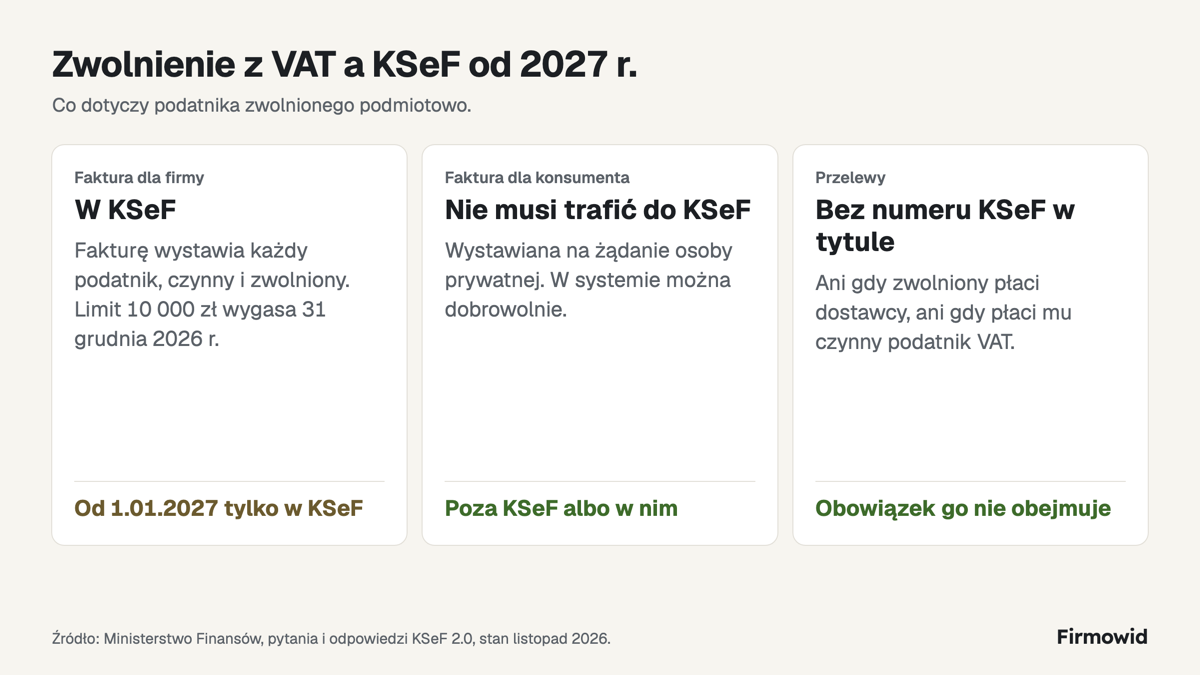
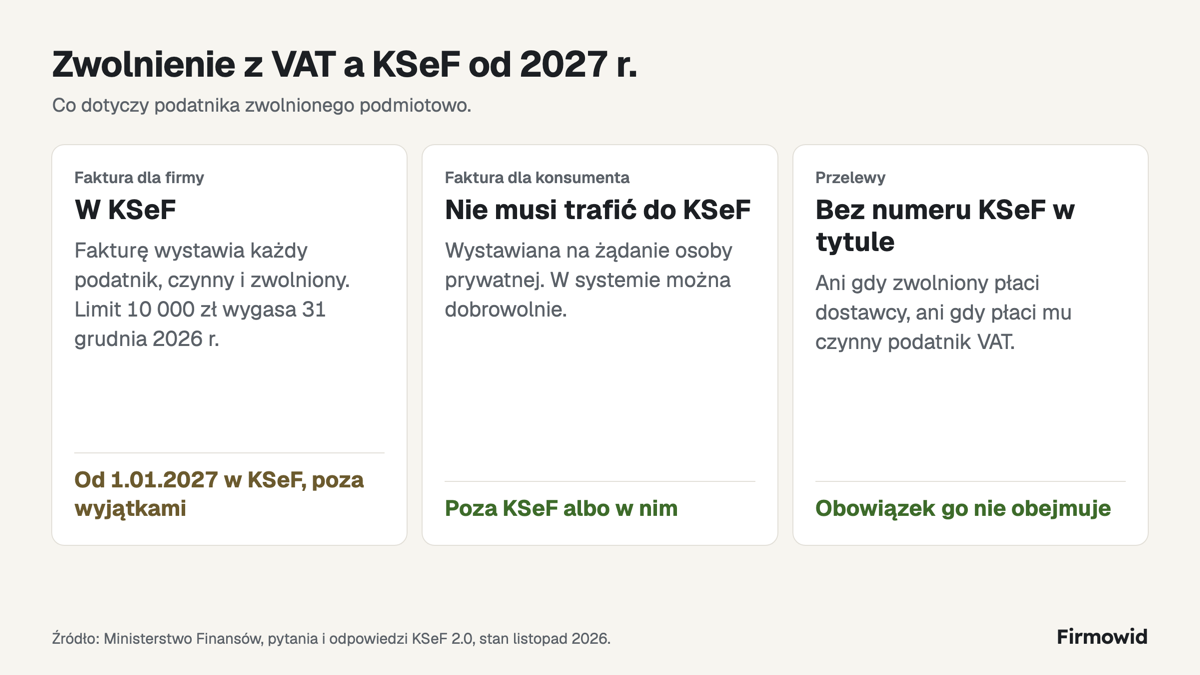
fix(landing): point to the KSeF exclusions for exempt services
Addresses review feedback on PR #415.

Changed region(s): [[0.0617, 0.6844, 0.3083, 0.7778]]

diff --git a/priv/guides/zwolnienie-z-vat-a-ksef-2027.md b/priv/guides/zwolnienie-z-vat-a-ksef-2027.md
@@ -6,7 +6,7 @@ updated: 2026-11-12
 category: ksef-w-praktyce
 ---
 
-Wśród podatników zwolnionych z VAT krąży przekonanie, że KSeF dotyczy wyłącznie firm rozliczających podatek. Ministerstwo Finansów odpowiada na to w swoich wyjaśnieniach, że fakturę w KSeF wystawia każdy podatnik, czynny i zwolniony, jeżeli ma obowiązek ją wystawić, a forma prawna firmy nie ma przy tym znaczenia. W 2026 r. wielu zwolnionych korzysta jeszcze z wyjątku dla sprzedaży udokumentowanej fakturami do 10 000 zł brutto w miesiącu, który wygasa 31 grudnia, więc od 1 stycznia 2027 r. ich faktury dla innych firm będą wystawiane już wyłącznie w systemie.
+Wśród podatników zwolnionych z VAT krąży przekonanie, że KSeF dotyczy wyłącznie firm rozliczających podatek. Ministerstwo Finansów odpowiada na to w swoich wyjaśnieniach, że fakturę w KSeF wystawia każdy podatnik, czynny i zwolniony, jeżeli ma obowiązek ją wystawić, a forma prawna firmy nie ma przy tym znaczenia. W 2026 r. wielu zwolnionych korzysta jeszcze z wyjątku dla sprzedaży udokumentowanej fakturami do 10 000 zł brutto w miesiącu, który wygasa 31 grudnia, więc od 1 stycznia 2027 r. ich faktury dla innych firm będą wystawiane już w systemie, poza wyjątkami opisanymi niżej.
 
 ## Faktura na żądanie nabywcy
 
@@ -16,7 +16,7 @@ Czynności zwolnione z VAT dokumentuje się fakturą na żądanie nabywcy, przy 
 
 Inaczej niż czynnych podatników VAT, zwolnionych nie obejmuje od 2027 r. obowiązek wpisywania numeru KSeF w tytule przelewu, zarówno gdy płacą swoim dostawcom, jak i gdy pieniądze przelewa im czynny podatnik. KSeF nie weryfikuje przy tym statusu kontrahenta w wykazie podatników VAT, o czym MF również pisze w odpowiedziach na pytania. W Firmowidzie, naszym programie do faktur, po zaznaczeniu zwolnienia w danych firmy znika z faktur kolumna VAT, a na dokumencie pojawia się podstawa prawna zwolnienia, na przykład art. 113 ustawy.
 
-![Podatnik zwolniony z VAT od 1 stycznia 2027 r. wystawia faktury dla firm tylko w KSeF, faktury dla konsumentów może wystawiać poza systemem, a numeru KSeF w tytule przelewu nie podaje ani nie dostaje.](/images/guides/zwolnienie-z-vat-ksef-2027.webp)
+![Podatnik zwolniony z VAT od 1 stycznia 2027 r. wystawia faktury dla firm w KSeF, poza wyjątkami z rozporządzenia, faktury dla konsumentów może wystawiać poza systemem, a numeru KSeF w tytule przelewu nie podaje ani nie dostaje.](/images/guides/zwolnienie-z-vat-ksef-2027.webp)
 
 ## Źródła
 
